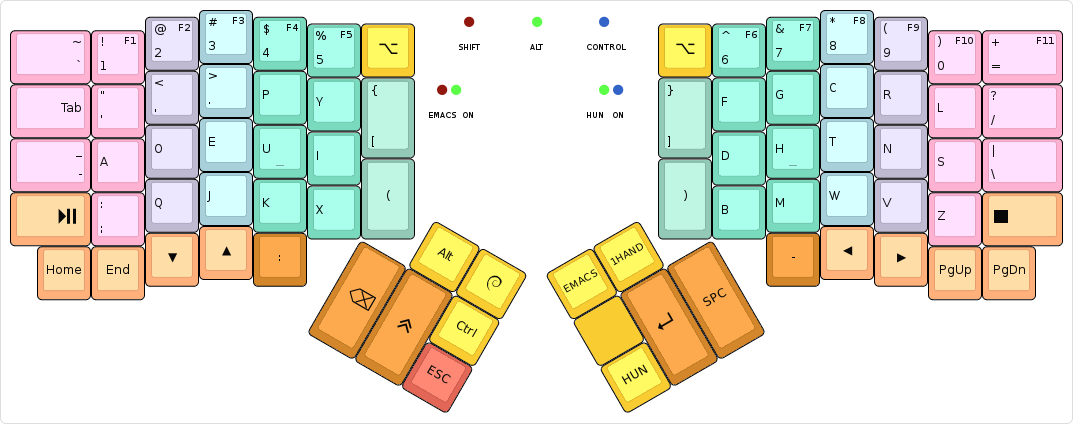
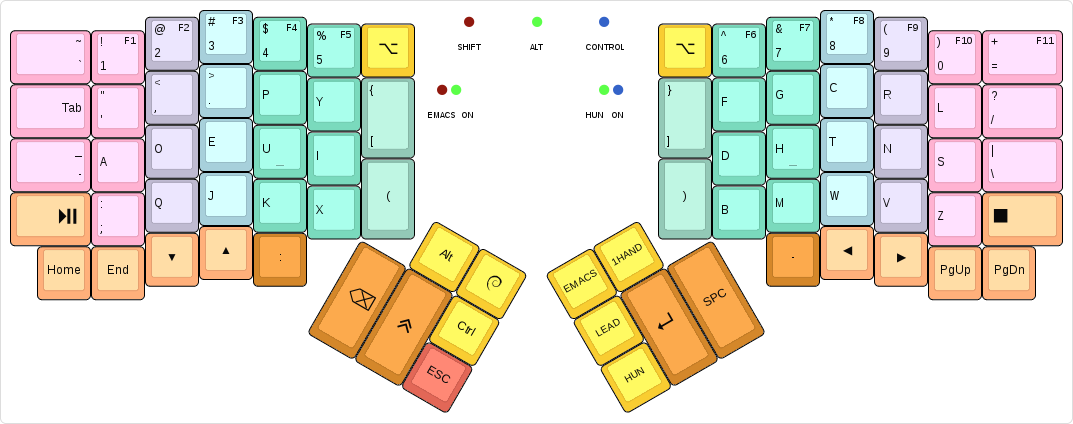
BASE: Implement a leader key
Use a leader key on the right thumb cluster, to input unicode, and do
some other stuff.

Fixes #28.

diff --git a/keymap.c b/keymap.c
@@ -130,7 +130,7 @@ const uint16_t PROGMEM keymaps[][MATRIX_ROWS][MATRIX_COLS] = {
  *                                         ,-------------.           ,-------------.
  *                                         | LAlt | GUI  |           |EMACS | 1HND |
  *                                  ,------|------|------|           |------+------+------.
- *                                  |      |      | Ctrl |           |      |      |      |
+ *                                  |      |      | Ctrl |           | LEAD |      |      |
  *                                  |Backsp|LShift|------|           |------| Enter| Space|
  *                                  |      |      | ESC  |           | HUN  |      |      |
  *                                  `--------------------'           `--------------------'
@@ -155,7 +155,7 @@ const uint16_t PROGMEM keymaps[][MATRIX_ROWS][MATRIX_COLS] = {
                                                                                 ,KC_MINS,KC_LEFT,KC_RGHT     ,KC_PGUP     ,KC_PGDN
 
                                                                ,OSL(EMACS),M(OH_LEFT)
-                                                               ,KC_NO
+                                                               ,KC_LEAD
                                                                ,F(F_HUN),KC_ENT ,KC_SPC
     ),
 
@@ -789,6 +789,28 @@ void matrix_init_user(void) {
   ergodox_led_all_off();
 };
 
+LEADER_EXTERNS();
+
+void ang_do_unicode (void) {
+  register_code (KC_RCTL);
+  register_code (KC_RSFT);
+  register_code (KC_U);
+  unregister_code (KC_U);
+  unregister_code (KC_RSFT);
+  unregister_code (KC_RCTL);
+}
+
+void ang_tap (uint16_t codes[]) {
+  for (int i = 0; codes[i] != 0; i++) {
+    register_code (codes[i]);
+    unregister_code (codes[i]);
+  }
+}
+
+#define TAP_ONCE(code) \
+  register_code (code); \
+  unregister_code (code)
+
 // Runs constantly in the background, in a loop.
 void matrix_scan_user(void) {
   uint8_t layer = biton32(layer_state);
@@ -863,5 +885,48 @@ void matrix_scan_user(void) {
     ergodox_right_led_3_set (LED_BRIGHTNESS_LO);
     if (layer != OHRGT && layer != HUN)
       ergodox_right_led_3_off ();
+  }
+
+  LEADER_DICTIONARY() {
+    leading = false;
+    leader_end ();
+
+    SEQ_ONE_KEY (KC_U) {
+      ang_do_unicode ();
+    }
+
+    SEQ_ONE_KEY (KC_L) {
+      /* λ */
+      ang_do_unicode ();
+
+      uint16_t codes[] = {KC_0, KC_3, KC_B, KC_B, KC_ENT, 0};
+      ang_tap (codes);
+    }
+
+    SEQ_ONE_KEY (KC_S) {
+      ang_do_unicode (); TAP_ONCE (KC_A); TAP_ONCE (KC_F); TAP_ONCE (KC_SPC);
+      TAP_ONCE (KC_BSLS);
+      register_code (KC_RSFT); TAP_ONCE (KC_MINS); TAP_ONCE (KC_9); unregister_code (KC_RSFT);
+      ang_do_unicode (); TAP_ONCE (KC_3); TAP_ONCE (KC_0); TAP_ONCE (KC_C); TAP_ONCE (KC_4); TAP_ONCE (KC_SPC);
+      register_code (KC_RSFT); TAP_ONCE (KC_0); TAP_ONCE (KC_MINS); unregister_code (KC_RSFT);
+      TAP_ONCE (KC_SLSH);
+      ang_do_unicode (); TAP_ONCE (KC_A); TAP_ONCE (KC_F); TAP_ONCE (KC_SPC);
+    }
+
+    SEQ_TWO_KEYS (KC_W, KC_M) {
+      register_code (KC_LALT);
+      register_code (KC_F2);
+      unregister_code (KC_F2);
+      unregister_code (KC_LALT);
+
+      _delay_ms (1000);
+
+      uint16_t codes[] = {KC_M, KC_A, KC_X, KC_MINS, KC_F, KC_O, KC_C, KC_U, KC_S, KC_E, KC_D, KC_ENT, 0};
+      ang_tap (codes);
+      register_code (KC_LGUI);
+      register_code (KC_UP);
+      unregister_code (KC_UP);
+      unregister_code (KC_LGUI);
+    }
   }
 }

diff --git a/config_user.h b/config_user.h
@@ -21,4 +21,7 @@
 #undef LOCKING_SUPPORT_ENABLE
 #undef LOCKING_RESYNC_ENABLE
 
+#undef LEADER_TIMEOUT
+#define LEADER_TIMEOUT 1000
+
 #endif
